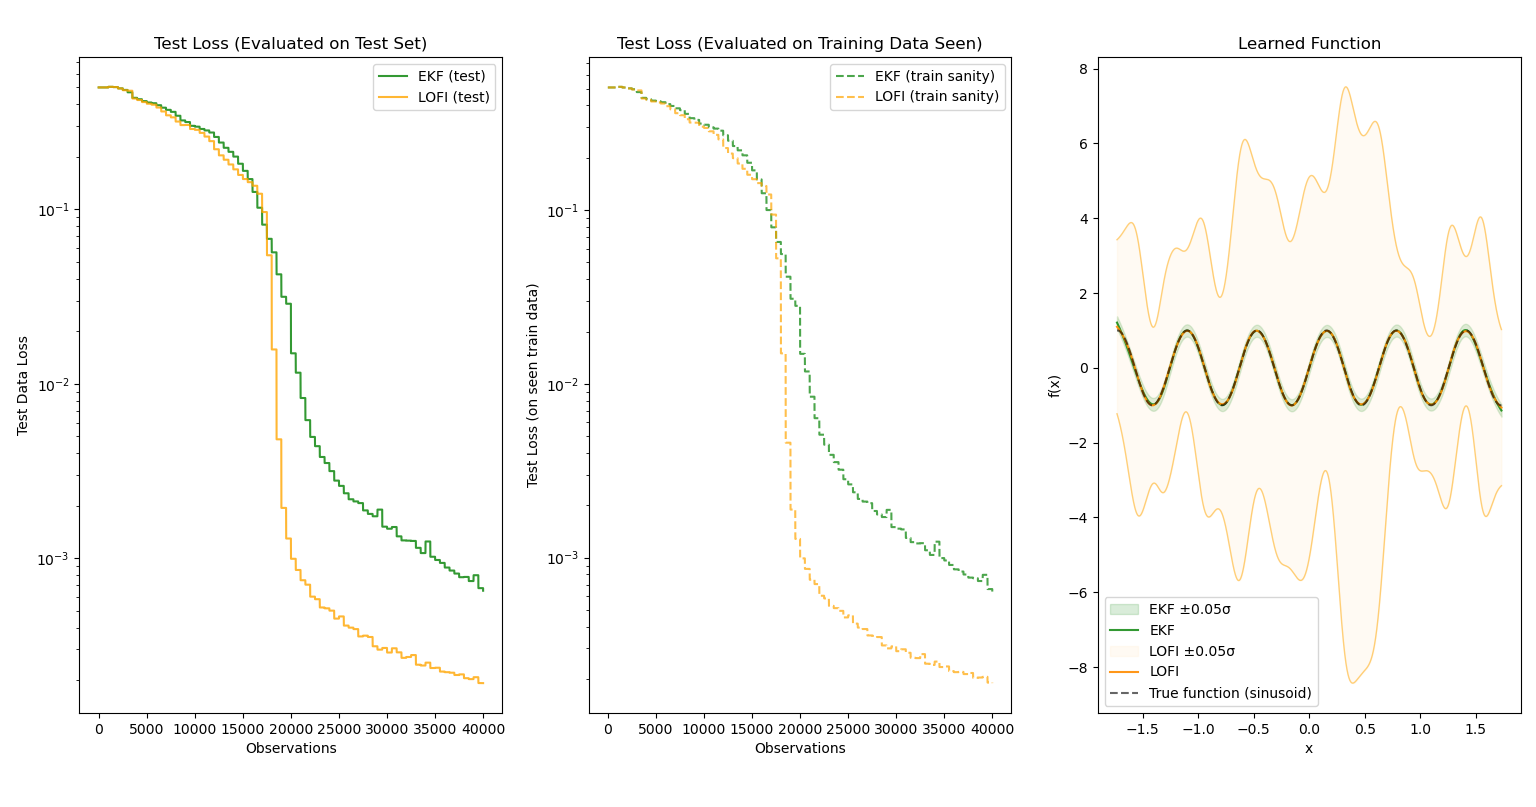
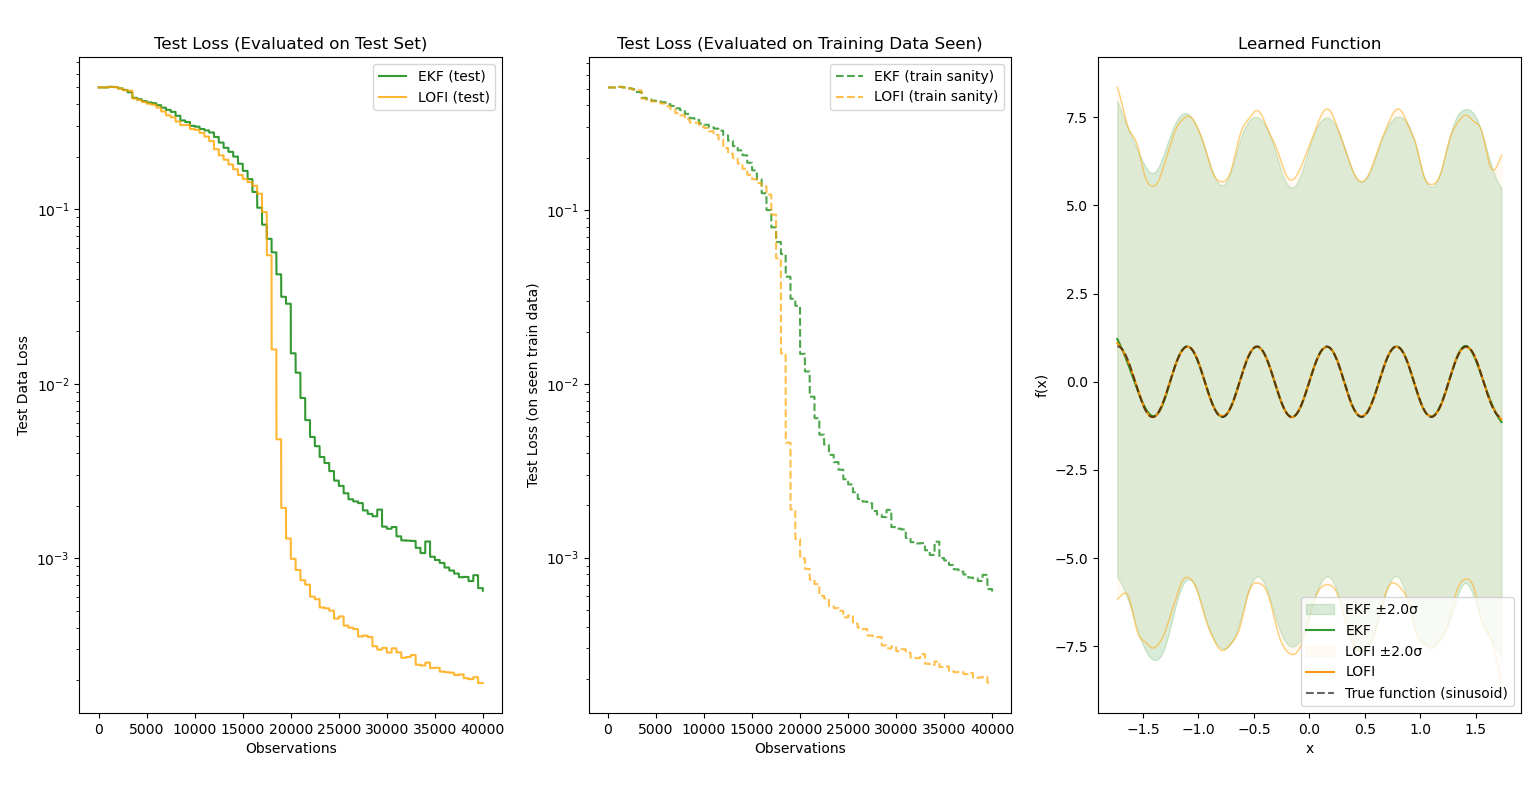
updated figures to represent correct uncertainty

Changed region(s): [[0.6562, 0.1239, 1.0, 0.8674], [0.5625, 0.0929, 0.6562, 0.1239], [0.3125, 0.8984, 0.3438, 0.9294]]

diff --git a/_site/blog/2025/12/16/lofi/index.html b/_site/blog/2025/12/16/lofi/index.html
@@ -212,12 +212,12 @@ which we already calculate in the EKF algorithm.</p>
 <p>The plots I generated above required minutes of training for the EKF over the same data as Adam, which took just a few seconds. This surely wouldn’t fly in real-time systems despite their accuracy!</p>
 
 <h3 id="using-decomposition-to-approximate-ekf">Using decomposition to approximate EKF</h3>
-<p>In 2023, <a href="https://arxiv.org/abs/2305.19535" target="_blank">this paper</a><a href="#appendix">${}^4$</a> presented a way to approximate an EKF by storing the covariance matrix in two components: a diagonal matrix and a low-rank (horizontal) matrix. Using singular value decomposition and Woodbury identities, we can still mimic the Kalman filter process of updating state distributions based on Jacobians. However, covariance updates are now much faster since the covariance information we store grows linearly with the number of parameters! We can then adjust how much covariance information we would like to capture by changing the maximum rank $L$ of the low-rank matrix.</p>
+<p>In 2023, <a href="https://arxiv.org/abs/2305.19535" target="_blank">this paper</a><a href="#appendix">${}^4$</a> presented a way to approximate an EKF by storing the <em>inverse</em> covariance matrix in two components: a diagonal matrix and a low-rank (horizontal) matrix. Using singular value decomposition and Woodbury identities, we can still mimic the Kalman filter process of updating state distributions based on Jacobians. However, covariance updates are now much faster since the covariance information we store grows linearly with the number of parameters! We can then adjust how much covariance information we would like to capture by changing the maximum rank $L$ of the low-rank matrix.</p>
 
 <p>Due to the extra complications of using covariance matrices in this format, prediction and updates are split into separate algorithms in LOFI. Moreover, while the diagonal matrix and low-rank matrices are stored independently, the update step must take care to treat them as approximating the <em>same matrix</em> when combined, thus any updates to one of the components must be reflected in the other. This is where SVD comes in during the update step. Still, if you look beyond the fancy matrix computations, many of the steps are similar to the standard EKF procedure: a priori predictions of parameters and the covariance matrix are the same (at least for the diagonal component), and the parameters are updated by using innovation and a modified Kalman gain matrix.</p>
 
 <h3 id="performance">Performance</h3>
-<p>When evaluating the tradeoffs of an optimization, it’s important that the sacrifices made for speed do not lead to an optimizer that is pointlessly more complicated than a standard optimizer (i.e. does not give much performance benefit). Fortunately, this is not the case for LOFI! The following results pit LOFI<a href="#appendix">${}^5$</a> and Adam against each other as they learn a nonlinear function online over 50,000 observations. For every 50 observations, evaluation over the test data as well as previously-seen observations is conducted and plotted.</p>
+<p>When evaluating the tradeoffs of an optimization, it’s important that the sacrifices made for speed do not lead to an optimizer that is pointlessly more complicated than a standard optimizer (i.e. does not give much performance benefit). Fortunately, this is not the case for LOFI! The following results pit LOFI<a href="#appendix">${}^5$</a> and Adam against each other as they learn a nonlinear function online over 50,000 observations. For every 500 observations, evaluation over the test data as well as previously-seen observations is conducted and plotted.</p>
 
 <p>Evaluated on $f(x)=\text{sin}(10x)$:
 <img src="/assets/images/online_sinusoid_demo.png" alt="LOFI vs. Adam for sinusoid" /></p>
@@ -236,7 +236,7 @@ which we already calculate in the EKF algorithm.</p>
 <p>We can also see the accuracy-for-speed tradeoff more clearly when pitting LOFI against EKF:
 <img src="/assets/images/online_ekf_vs_lofi_demo.png" alt="EKF vs LOFI" /></p>
 
-<p>Both optimizers were able to learn the function quite well, and surprisingly, LOFI exceeds the performance of the EKF using the same shared hyperparameters<a href="#appendix">${}^6$</a>! This is likely due to implicit regularization from the low-rank approximation, as the standard EKF is more expressive than LOFI. However, observe the uncertainty bands — while LOFI has much larger and erratic bounds, the EKF has far more certainty and its uncertainty bands match the function shape correctly. (I suspect this is due to the low-rank approximation that LOFI uses encoding less covariance information.) Yet what is not displayed is the training time: while the EKF trained for <strong>~3 minutes</strong>, LOFI took a mere <strong>18 seconds</strong> to train.</p>
+<p>Both optimizers were able to learn the function quite well, and surprisingly, LOFI exceeds the performance of the EKF using the same shared hyperparameters<a href="#appendix">${}^6$</a>! This is likely due to implicit regularization from the low-rank approximation, as the standard EKF is more expressive than LOFI. However, observe the uncertainty bands — the EKF has slightly more certainty and its uncertainty bands match the function shape more accurately. (I suspect this is due to the low-rank approximation that LOFI uses encoding less covariance information.) Yet what is not displayed is the training time: while the EKF trained for <strong>~3 minutes</strong>, LOFI took a mere <strong>18 seconds</strong> to train. Given the closeness in performance, LOFI is a remarkable optimization over the EKF.</p>
 
 <hr />
 

diff --git a/_posts/2025-12-17-lofi.md b/_posts/2025-12-17-lofi.md
@@ -3,7 +3,7 @@ layout: post
 title: "Online learning with a memory-efficient Kalman Filter"
 date: 2025-12-16 14:00:00 +0000
 categories: blog
-updated: 2026-01-03 00:00:00 +0000
+updated: 2026-02-08 00:00:00 +0000
 ---
  
 <p class="post-meta-updated">{{ page.date | date: "%b %-d, %Y" }}{% if page.updated %} | Updated {{ page.updated | date: "%b %-d, %Y" }}{% endif %}</p>
@@ -118,14 +118,14 @@ There is but one issue with the Kalman filter: it's computationally and spatiall
 The plots I generated above required minutes of training for the EKF over the same data as Adam, which took just a few seconds. This surely wouldn't fly in real-time systems despite their accuracy!
 
 ### Using decomposition to approximate EKF
-In 2023, [this paper](https://arxiv.org/abs/2305.19535){:target="_blank"}[${}^4$](#appendix) presented a way to approximate an EKF by storing the covariance matrix in two components: a diagonal matrix and a low-rank (horizontal) matrix. Using singular value decomposition and Woodbury identities, we can still mimic the Kalman filter process of updating state distributions based on Jacobians. However, covariance updates are now much faster since the covariance information we store grows linearly with the number of parameters! We can then adjust how much covariance information we would like to capture by changing the maximum rank $L$ of the low-rank matrix.
+In 2023, [this paper](https://arxiv.org/abs/2305.19535){:target="_blank"}[${}^4$](#appendix) presented a way to approximate an EKF by storing the *inverse* covariance matrix in two components: a diagonal matrix and a low-rank (horizontal) matrix. Using singular value decomposition and Woodbury identities, we can still mimic the Kalman filter process of updating state distributions based on Jacobians. However, covariance updates are now much faster since the covariance information we store grows linearly with the number of parameters! We can then adjust how much covariance information we would like to capture by changing the maximum rank $L$ of the low-rank matrix.
 
 Due to the extra complications of using covariance matrices in this format, prediction and updates are split into separate algorithms in LOFI. Moreover, while the diagonal matrix and low-rank matrices are stored independently, the update step must take care to treat them as approximating the _same matrix_ when combined, thus any updates to one of the components must be reflected in the other. This is where SVD comes in during the update step. Still, if you look beyond the fancy matrix computations, many of the steps are similar to the standard EKF procedure: a priori predictions of parameters and the covariance matrix are the same (at least for the diagonal component), and the parameters are updated by using innovation and a modified Kalman gain matrix.
 
 
 
 ### Performance
-When evaluating the tradeoffs of an optimization, it's important that the sacrifices made for speed do not lead to an optimizer that is pointlessly more complicated than a standard optimizer (i.e. does not give much performance benefit). Fortunately, this is not the case for LOFI! The following results pit LOFI[${}^5$](#appendix) and Adam against each other as they learn a nonlinear function online over 50,000 observations. For every 50 observations, evaluation over the test data as well as previously-seen observations is conducted and plotted.
+When evaluating the tradeoffs of an optimization, it's important that the sacrifices made for speed do not lead to an optimizer that is pointlessly more complicated than a standard optimizer (i.e. does not give much performance benefit). Fortunately, this is not the case for LOFI! The following results pit LOFI[${}^5$](#appendix) and Adam against each other as they learn a nonlinear function online over 50,000 observations. For every 500 observations, evaluation over the test data as well as previously-seen observations is conducted and plotted.
 
 Evaluated on $f(x)=\text{sin}(10x)$:
 ![LOFI vs. Adam for sinusoid](/assets/images/online_sinusoid_demo.png)
@@ -144,7 +144,7 @@ In each case, not only does LOFI approximate the function better than Adam (some
 We can also see the accuracy-for-speed tradeoff more clearly when pitting LOFI against EKF:
 ![EKF vs LOFI](/assets/images/online_ekf_vs_lofi_demo.png)
 
-Both optimizers were able to learn the function quite well, and surprisingly, LOFI exceeds the performance of the EKF using the same shared hyperparameters[${}^6$](#appendix)! This is likely due to implicit regularization from the low-rank approximation, as the standard EKF is more expressive than LOFI. However, observe the uncertainty bands — while LOFI has much larger and erratic bounds, the EKF has far more certainty and its uncertainty bands match the function shape correctly. (I suspect this is due to the low-rank approximation that LOFI uses encoding less covariance information.) Yet what is not displayed is the training time: while the EKF trained for **~3 minutes**, LOFI took a mere **18 seconds** to train.
+Both optimizers were able to learn the function quite well, and surprisingly, LOFI exceeds the performance of the EKF using the same shared hyperparameters[${}^6$](#appendix)! This is likely due to implicit regularization from the low-rank approximation, as the standard EKF is more expressive than LOFI. However, observe the uncertainty bands — the EKF has slightly more certainty and its uncertainty bands match the function shape more accurately. (I suspect this is due to the low-rank approximation that LOFI uses encoding less covariance information.) Yet what is not displayed is the training time: while the EKF trained for **~3 minutes**, LOFI took a mere **18 seconds** to train. Given the closeness in performance, LOFI is a remarkable optimization over the EKF.
 
 ---
 
